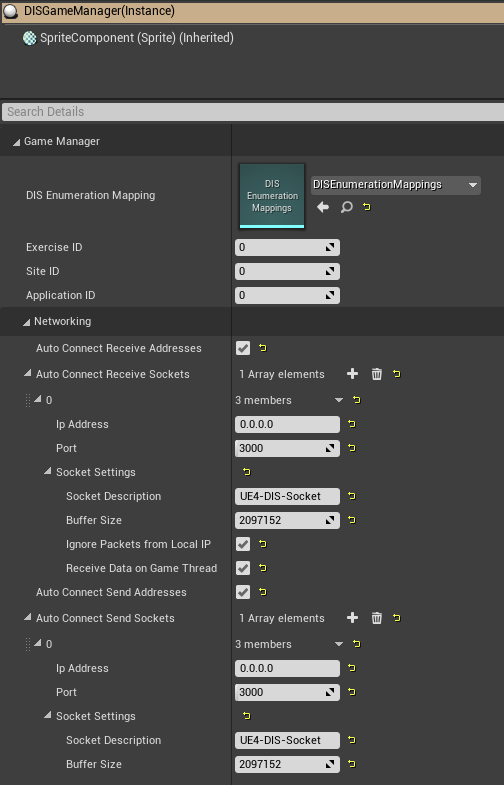
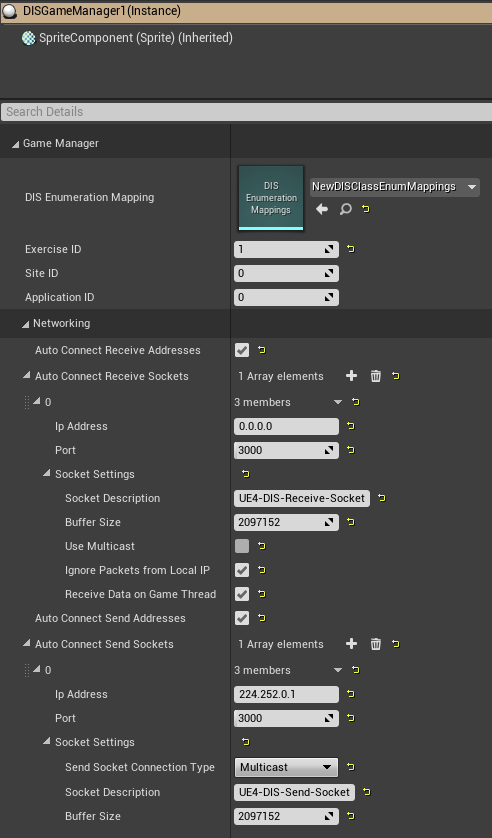
Update GRILL DIS for Unreal to most recent version.

Changed region(s): [[0.0305, 0.214, 0.9756, 1.0], [0.0, 0.0, 1.0, 0.0611], [0.0, 0.1223, 1.0, 0.1834]]

diff --git a/Plugins/GRILLDISForUnreal/Source/DISRuntime/Public/UDPSubsystem.h b/Plugins/GRILLDISForUnreal/Source/DISRuntime/Public/UDPSubsystem.h
@@ -13,21 +13,35 @@
 
 DECLARE_LOG_CATEGORY_EXTERN(LogUDPSubsystem, Log, All);
 
+UENUM(Blueprintable)
+enum class EConnectionType : uint8
+{
+	Broadcast,
+	Multicast,
+	Unicast
+};
+
 USTRUCT(Blueprintable)
 struct FSendSocketSettings
 {
 	GENERATED_BODY()
 
-	/** Friendly description of what this socket is to be used for */
+	/** Connection type to use for this send socket. */
+	UPROPERTY(EditAnywhere, BlueprintReadWrite)
+		EConnectionType SendSocketConnectionType;
+
+	/** Friendly description of what this socket is to be used for. */
 	UPROPERTY(EditAnywhere, BlueprintReadWrite)
 		FString SocketDescription;
 
-	/** Byte size the buffer of the socket should have. Defaults to roughly 2MB */
+	/** Byte size the buffer of the socket should have. Defaults to roughly 2MB. */
 	UPROPERTY(EditAnywhere, BlueprintReadWrite)
 		int32 BufferSize;
 
 	FSendSocketSettings()
 	{
+		SendSocketConnectionType = EConnectionType::Broadcast;
+
 		SocketDescription = FString(TEXT("UE4-DIS-Send-Socket"));
 
 		BufferSize = 2 * 1024 * 1024;	//default roughly 2mb
@@ -39,15 +53,19 @@ struct FReceiveSocketSettings
 {
 	GENERATED_BODY()
 
-	/** Friendly description of what this socket is to be used for */
+	/** Friendly description of what this socket is to be used for. */
 	UPROPERTY(EditAnywhere, BlueprintReadWrite)
 		FString SocketDescription;
 
-	/** Byte size the buffer of the socket should have. Defaults to roughly 2MB */
+	/** Byte size the buffer of the socket should have. Defaults to roughly 2MB. */
 	UPROPERTY(EditAnywhere, BlueprintReadWrite)
 		int32 BufferSize;
 
-	/** Whether we should process our data on the gamethread or the udp thread. */
+	/** Whether or not multicast should be used with this receive socket. */
+	UPROPERTY(EditAnywhere, BlueprintReadWrite)
+		bool bUseMulticast;
+
+	/** Whether we should ignore packets originating from ourself or not. */
 	UPROPERTY(EditAnywhere, BlueprintReadWrite)
 		bool bIgnorePacketsFromLocalIP;
 
@@ -61,6 +79,7 @@ struct FReceiveSocketSettings
 
 		BufferSize = 2 * 1024 * 1024;	//default roughly 2mb
 
+		bUseMulticast = false;
 		bIgnorePacketsFromLocalIP = true;
 		bReceiveDataOnGameThread = true;
 	}

diff --git a/Plugins/GRILLDISForUnreal/Source/DISRuntime/Private/UDPSubsystem.cpp b/Plugins/GRILLDISForUnreal/Source/DISRuntime/Private/UDPSubsystem.cpp
@@ -29,13 +29,24 @@ bool UUDPSubsystem::OpenReceiveSocket(FReceiveSocketSettings SocketSettings, int
 	FIPv4Address Addr;
 	FIPv4Address::Parse(IpToListenOn, Addr);
 	//Create Socket
-	FIPv4Endpoint Endpoint(Addr, PortToListenOn);
 
-	FSocket* ReceiverSocket = FUdpSocketBuilder(SocketSettings.SocketDescription)
+	FSocket* ReceiverSocket;
+	FUdpSocketBuilder SocketBuilder = FUdpSocketBuilder(SocketSettings.SocketDescription)
 		.AsNonBlocking()
 		//.AsReusable()
-		.BoundToEndpoint(Endpoint)
 		.WithReceiveBufferSize(SocketSettings.BufferSize);
+		
+	//Handle setting up of socket based on multicast or not
+	if (SocketSettings.bUseMulticast)
+	{
+		FIPv4Endpoint Endpoint(FIPv4Address::Any, PortToListenOn);
+		ReceiverSocket = SocketBuilder.BoundToEndpoint(Endpoint).JoinedToGroup(Addr);
+	}
+	else
+	{
+		FIPv4Endpoint Endpoint(Addr, PortToListenOn);
+		ReceiverSocket = SocketBuilder.BoundToEndpoint(Endpoint);
+	}
 
 	if (ReceiverSocket == nullptr)
 	{
@@ -144,7 +155,33 @@ bool UUDPSubsystem::OpenSendSocket(FSendSocketSettings SocketSettings, int32& Se
 		return 0;
 	}
 
-	FSocket* SenderSocket = FUdpSocketBuilder(SocketSettings.SocketDescription).AsReusable().WithBroadcast();
+	FSocket* SenderSocket;
+	FUdpSocketBuilder SocketBuilder = FUdpSocketBuilder(SocketSettings.SocketDescription).AsReusable();
+	
+	//Handle setting up send socket based on different connection types
+	switch (SocketSettings.SendSocketConnectionType)
+	{
+	case EConnectionType::Broadcast:
+	{
+		SenderSocket = SocketBuilder.WithBroadcast();
+		break;
+	}
+	case EConnectionType::Multicast:
+	{
+		FIPv4Address Addr;
+		FIPv4Address::Parse(IpToSendOn, Addr);
+		SenderSocket = SocketBuilder.JoinedToGroup(Addr);
+		break;
+	}
+	case EConnectionType::Unicast:
+	{
+		SenderSocket = SocketBuilder;
+		break;
+	}
+	default:
+		UE_LOG(LogUDPSubsystem, Error, TEXT("Invalid Connection Type passed to Open Send Socket!"));
+		return false;
+	}
 
 	//Set Send Buffer Size
 	SenderSocket->SetSendBufferSize(SocketSettings.BufferSize, SocketSettings.BufferSize);

diff --git a/Plugins/GRILLDISForUnreal/Source/DISRuntime/Public/DISGameManager.h b/Plugins/GRILLDISForUnreal/Source/DISRuntime/Public/DISGameManager.h
@@ -26,7 +26,7 @@ struct FSendSocketInfo
 	GENERATED_BODY()
 
 	UPROPERTY(BlueprintReadWrite, EditAnywhere,
-		Meta = (Tooltip = "The IP Address to either send UDP packets to or receive UDP packets from."))
+		Meta = (Tooltip = "The IP Address to send UDP packets to."))
 		FString IpAddress = "0.0.0.0";
 
 	UPROPERTY(BlueprintReadWrite, EditAnywhere,	
@@ -43,7 +43,7 @@ struct FReceiveSocketInfo
 	GENERATED_BODY()
 
 	UPROPERTY(BlueprintReadWrite, EditAnywhere,
-		Meta = (Tooltip = "The IP Address to either send UDP packets to or receive UDP packets from."))
+		Meta = (Tooltip = "The IP Address to receive UDP packets from."))
 		FString IpAddress = "0.0.0.0";
 
 	UPROPERTY(BlueprintReadWrite, EditAnywhere,

diff --git a/Plugins/GRILLDISForUnreal/README.md b/Plugins/GRILLDISForUnreal/README.md
@@ -1,4 +1,4 @@
-![DISPluginLogo](Resources/Icon128.png)
+[![DISPluginLogo](Resources/Icon128.png)](https://www.af-grill.com/)
 
 # Getting Started
 
